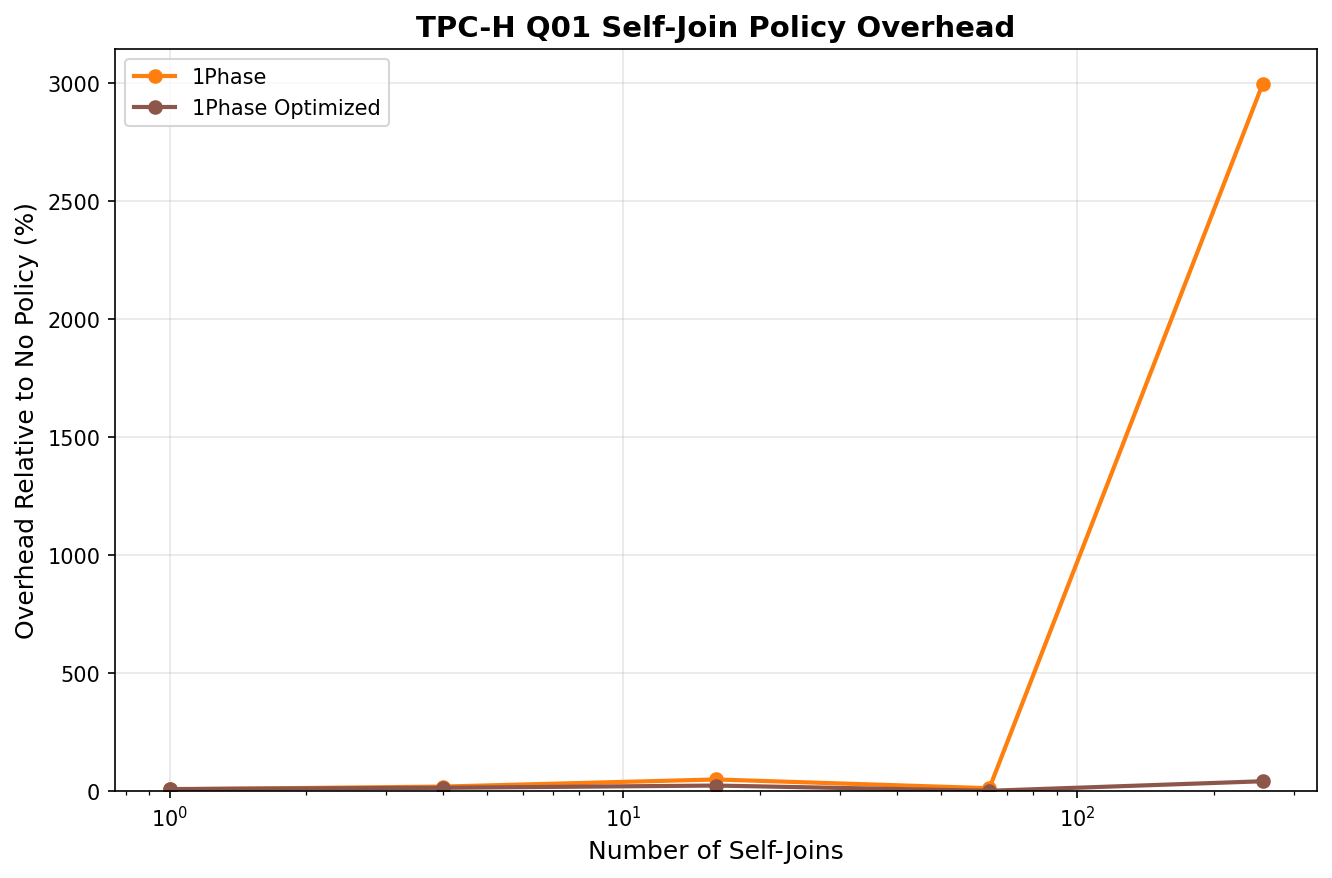
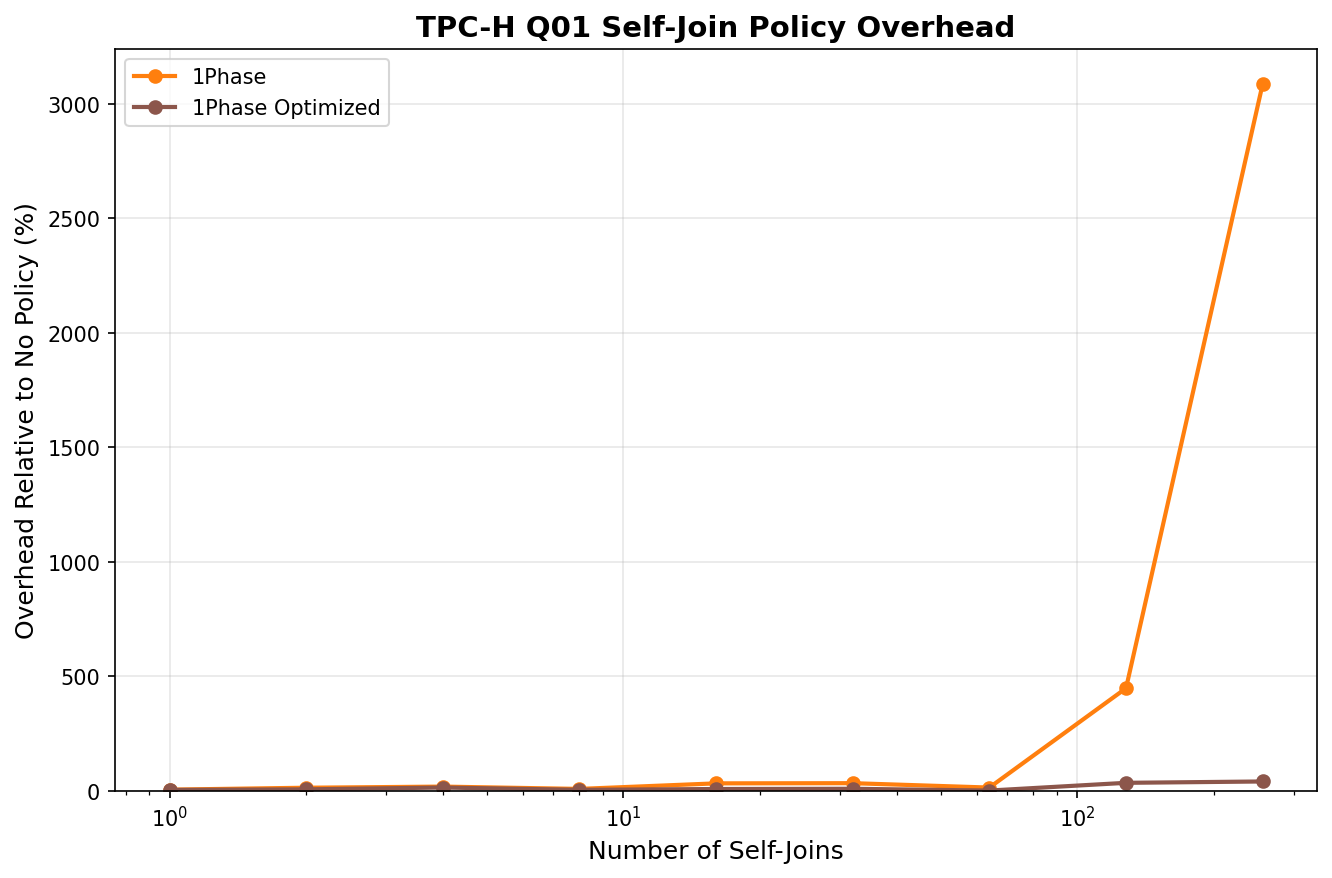
Update tpch self join policy experiment

diff --git a/vldb_2026_big_paper_experiments/src/vldb_experiments/strategies/tpch_policy_count_optimized_queries.py b/vldb_2026_big_paper_experiments/src/vldb_experiments/strategies/tpch_policy_count_optimized_queries.py
@@ -8,6 +8,13 @@ from shared_sql_utils import combine_constraints_balanced
 
 SUPPORTED_POLICY_COUNTS = (
     1,
+    2,
+    4,
+    8,
+    16,
+    32,
+    64,
+    128,
     10,
     100,
     256,
